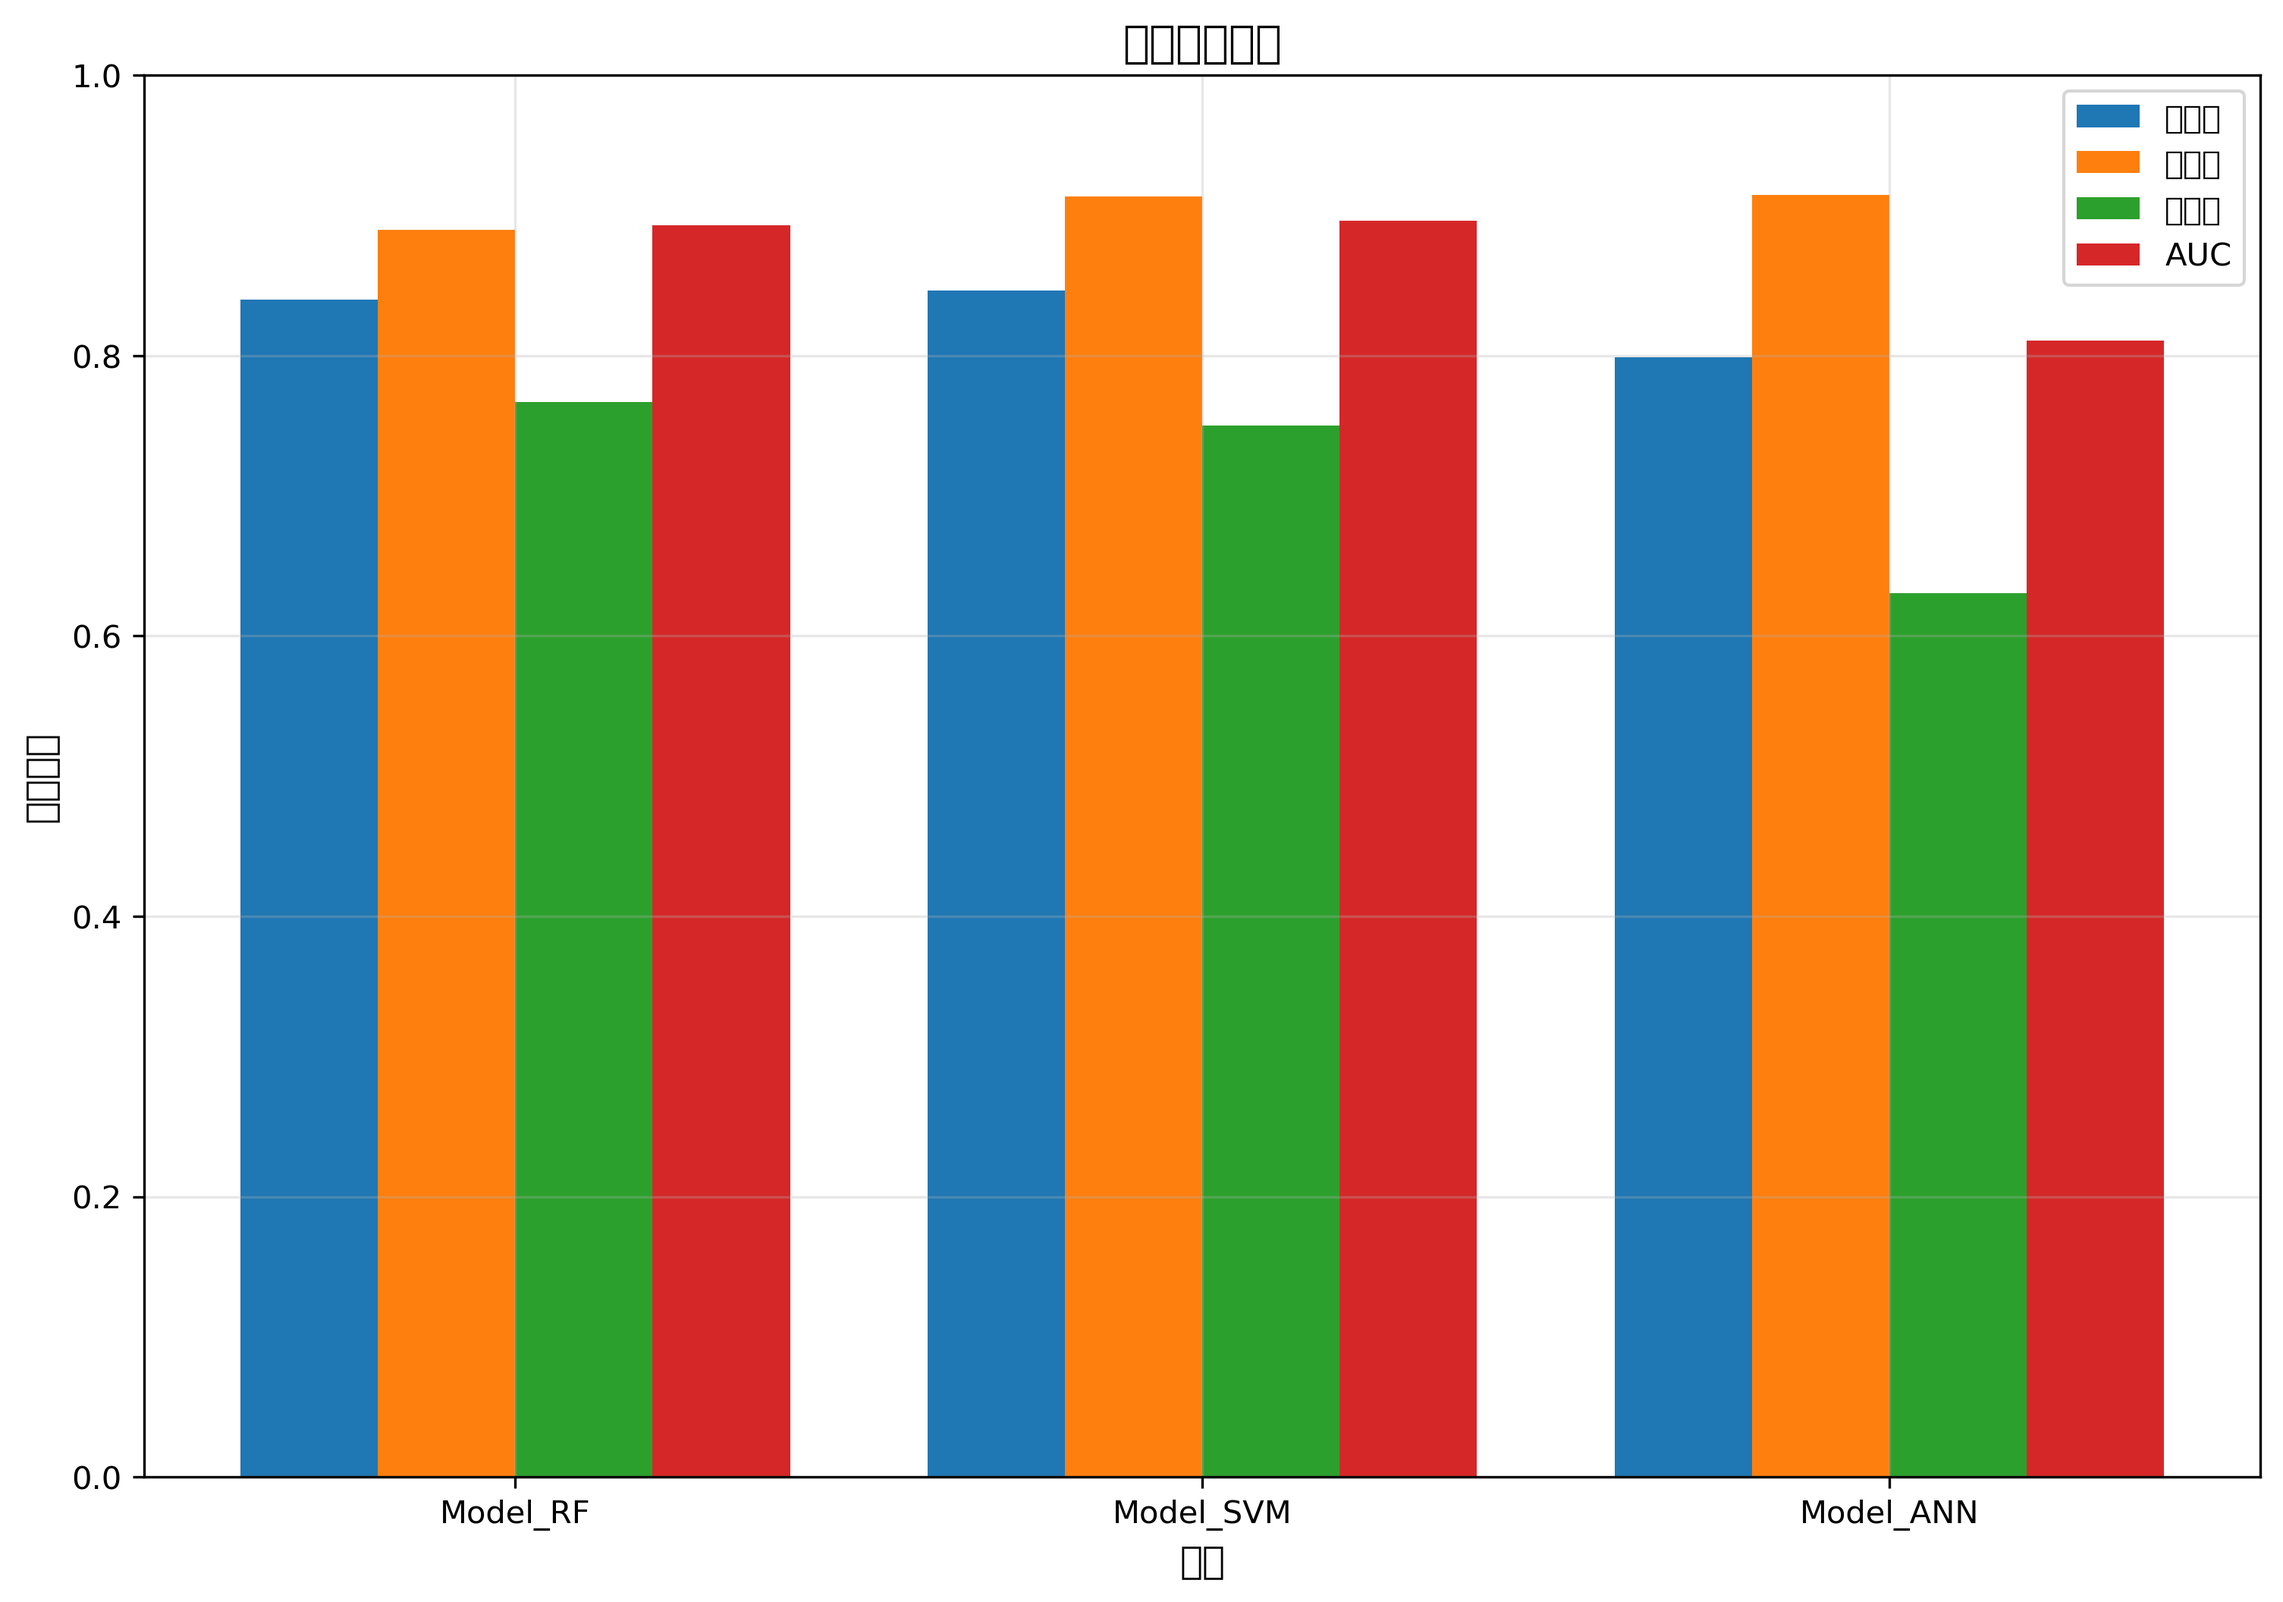
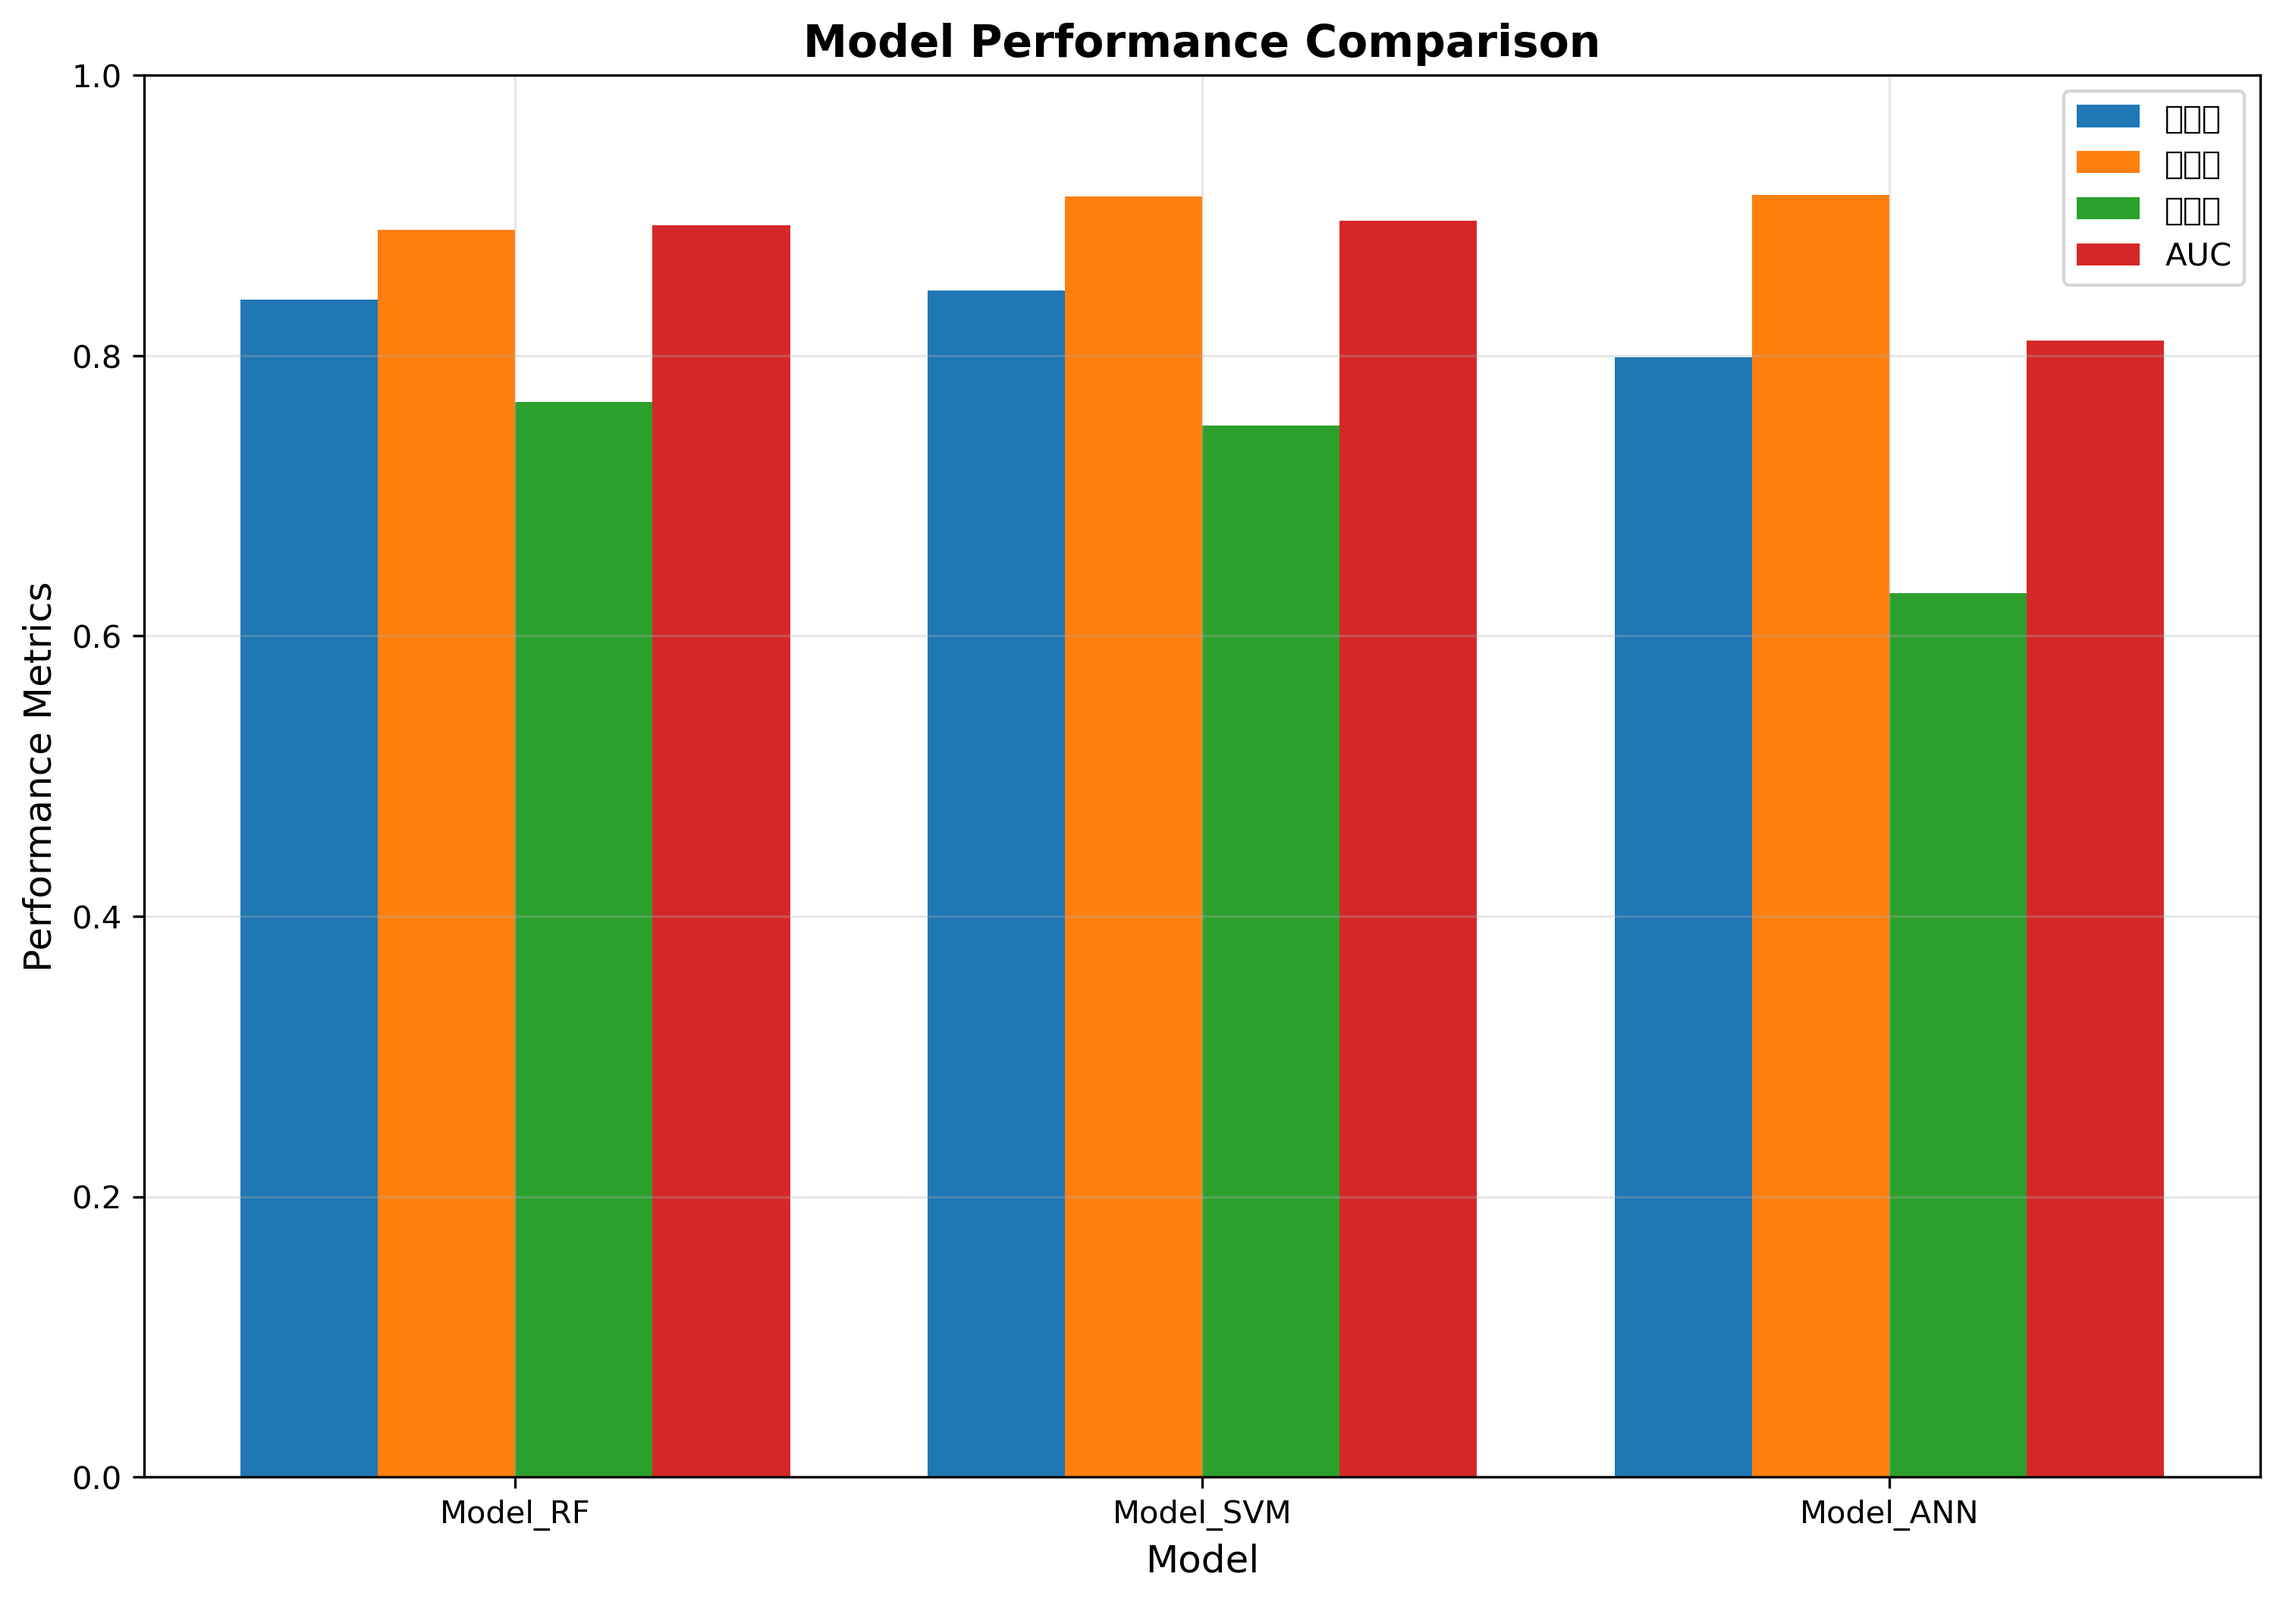
修改了可视化

Changed region(s): [[0.3435, 0.0, 0.687, 0.0625], [0.0, 0.375, 0.0312, 0.5938], [0.4997, 0.9688, 0.5621, 1.0]]

diff --git a/visualizer.py b/visualizer.py
@@ -47,15 +47,15 @@ class Visualizer:
             auc = roc_auc_score(test_y, test_prob)
             
             # 绘制ROC曲线
-            ax.plot(fpr, tpr, label=f"{label} AUC面积 = {auc:.2f}", linewidth=2)
+            ax.plot(fpr, tpr, label=f"{label} AUC = {auc:.2f}", linewidth=2)
         
         # 绘制对角线（随机分类器基准线）
-        ax.plot([0, 1], [0, 1], "r--", linewidth=1, label="随机分类器")
+        ax.plot([0, 1], [0, 1], "r--", linewidth=1, label="Random Classifier")
         
         # 设置图表属性
-        ax.set_xlabel("假正例率 (FPR)", fontsize=12)
-        ax.set_ylabel("真正例率 (TPR)", fontsize=12)
-        ax.set_title("ROC曲线对比", fontsize=14, fontweight='bold')
+        ax.set_xlabel("FPR", fontsize=12)
+        ax.set_ylabel("TPR", fontsize=12)
+        ax.set_title("ROC", fontsize=14, fontweight='bold')
         ax.legend(loc="lower right", fontsize=10)
         ax.grid(True, alpha=0.3)
         
@@ -102,9 +102,9 @@ class Visualizer:
             ax.bar([pos + width * i for pos in x], values, width, label=metric)
         
         # 设置图表属性
-        ax.set_xlabel('模型', fontsize=12)
-        ax.set_ylabel('性能指标', fontsize=12)
-        ax.set_title('模型性能对比', fontsize=14, fontweight='bold')
+        ax.set_xlabel('Model', fontsize=12)
+        ax.set_ylabel('Performance Metrics', fontsize=12)
+        ax.set_title('Model Performance Comparison', fontsize=14, fontweight='bold')
         ax.set_xticks([pos + width * 1.5 for pos in x])
         ax.set_xticklabels(models)
         ax.legend()
